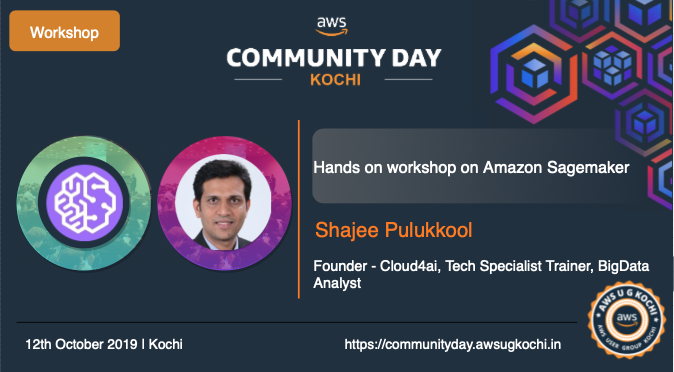
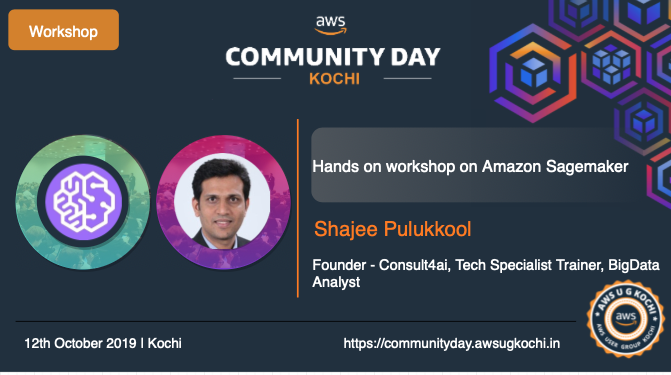
Update to consult 4ai

diff --git a/src/pages/blog/2019-08-24-aws-awsugkochi-acdkochi19-workshop-sagemaker.md b/src/pages/blog/2019-08-24-aws-awsugkochi-acdkochi19-workshop-sagemaker.md
@@ -126,11 +126,11 @@ Please ensure all of the above is ready BEFORE attending the workshop to make th
 
 **Trainer Details**
 
-This workshop will be handled by [Shajee Pulukkool](https://www.linkedin.com/in/shajeep/), Ex-amazon Tech Specialist. Founder at Cloud4ai
+This workshop will be handled by [Shajee Pulukkool](https://www.linkedin.com/in/shajeep/), Ex-amazon Tech Specialist. Founder at Consult4ai
 
 - 19+ Years Software Solutioning Expertise
 - 3+ Years with Amazon (AWS) as Tech Specialist
-- Founder Cloud4ai (ai power by cloud !!!)
+- Founder Consult4ai (ai power by cloud !!!)
 - Technology Specialisations in Mainframe, VMS, BigData, Cloud, AI/ML
 - Major Roles
     - Trainer
